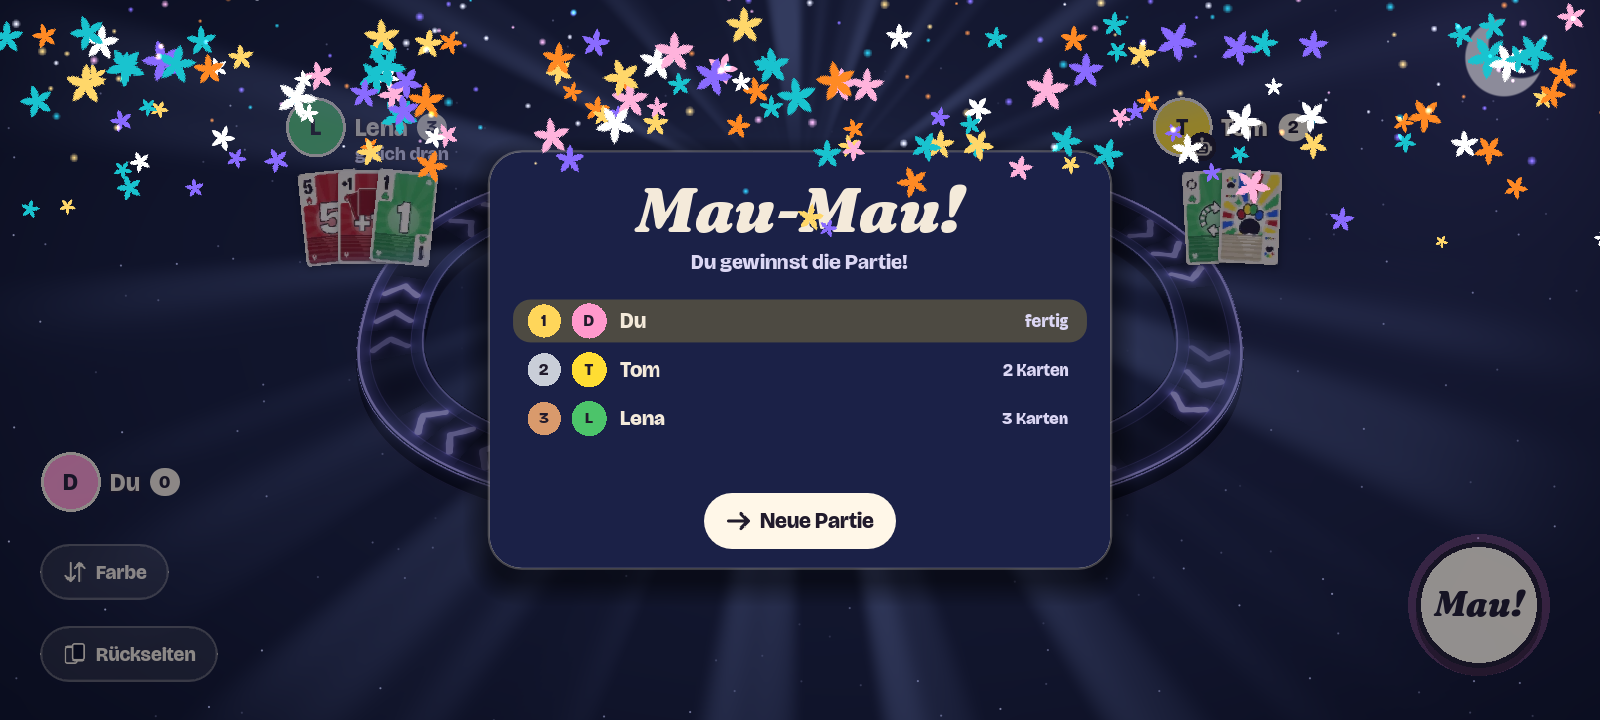
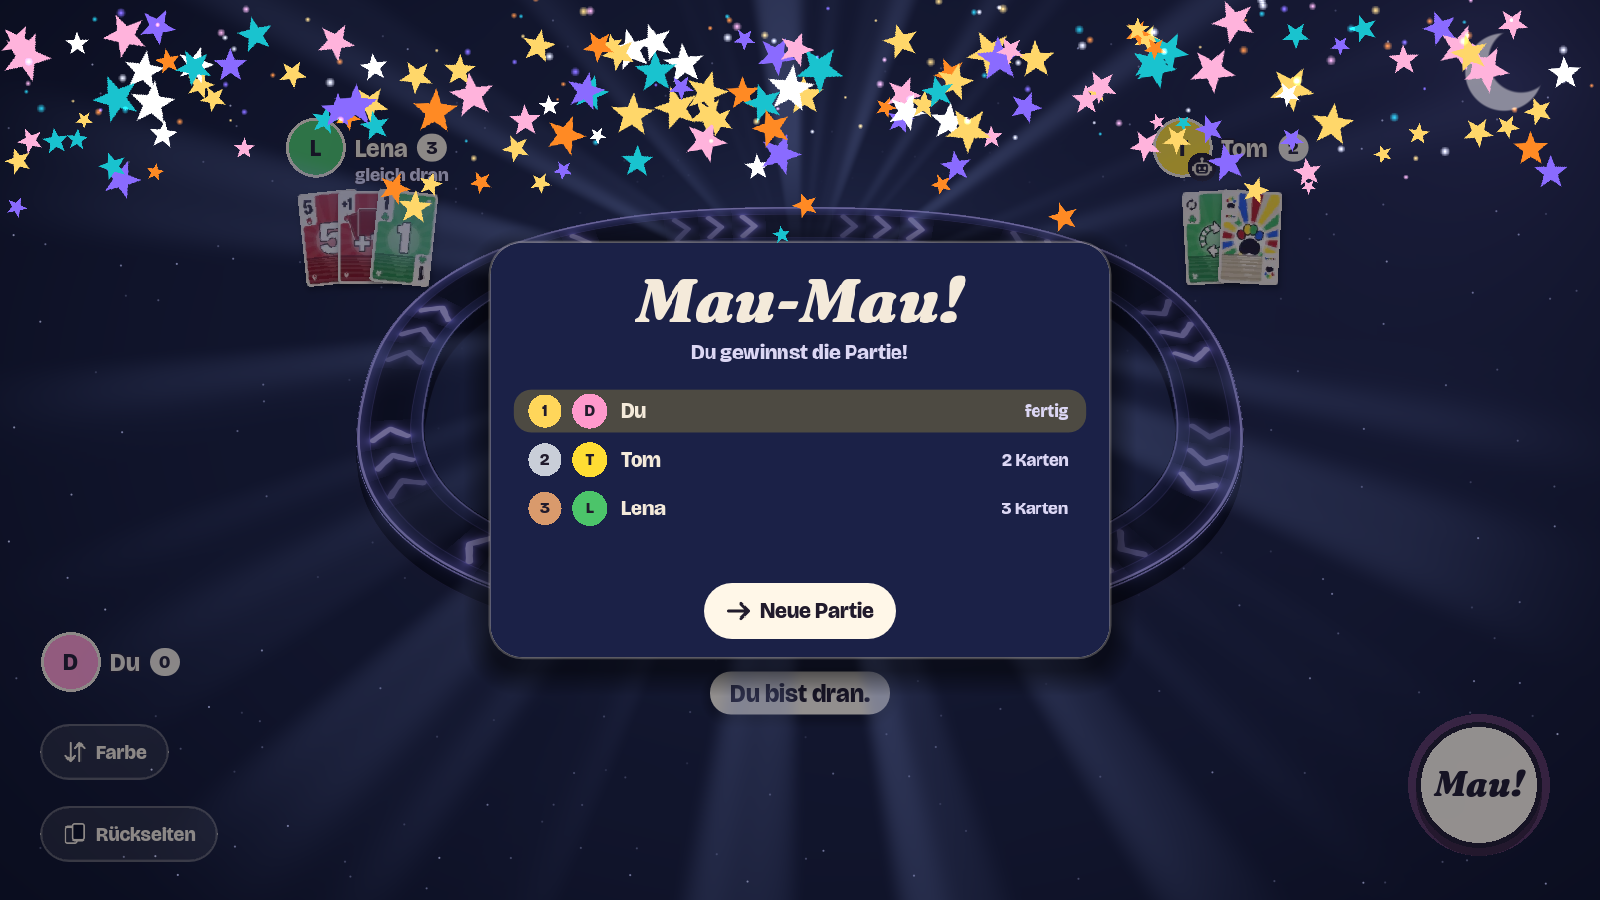
Beta 1.3.5: Sternenschauer in der App mit echten, spitzen Sternen statt blumenartiger Form

diff --git a/webclient/app.js b/webclient/app.js
@@ -5,7 +5,7 @@
 (function (M) {
   'use strict';
 
-  const VERSION = '1.3.4';
+  const VERSION = '1.3.5';
   const PROTO = 1;
   // wach.mp4 (32×32, 2 s, H.264 Baseline, ohne Ton; erzeugt mit ffmpeg) als data:-URI
[1 lines of base64/hex data omitted]

diff --git a/AGENTS.md b/AGENTS.md
@@ -117,7 +117,7 @@ Anlass: erstes echtes Online-Spiel des Nutzers (S24 Gastgeber, Freundin als Gast
 ## Erledigt in Beta 1.3.4 (veröffentlicht 08.10.2026; Nutzerwünsche vom selben Tag)
 
 - **Aussetzen-Karten:** beim Legen ein Katzenschnurren (Spieltöne; Kandidaten aus MOSS-SoundEffect wie die übrigen Spieltöne, Nutzer wählt per Hörseite; nichts aus `audio/referenz`). Runde 1 (`audio/entwurf/schnurren/`) war dem Nutzer „zu dumpf für den Handylautsprecher“; Runde 2 heller (`audio/entwurf/schnurren2/`, Handy-Simulation) war „zu hell und kratzig“, 2_09 die Richtung; **gewählt: `audio/entwurf/schnurren3/schnurren3_03.ogg`** (2_09 weich, Puls etwas deutlicher) → `game/assets/sfx/schnurren.ogg`, `webclient/sfx/schnurren.ogg|m4a`.
-- **Partie-Ende nachts:** statt Konfettiregen ein bunter Sternenschauer (App `Effects.celebrate/star_shower`, Browser `feier()`; tagsüber bleibt Konfetti). Browser-Lobby tagsüber hell (nach einer Nachtpartie bleibt sie dunkel). Bericht `docs/geraetetest/1.3.4/BERICHT.md`; Schnurren am Gerät noch nicht gehört.
+- **Partie-Ende nachts:** statt Konfettiregen ein bunter Sternenschauer (App `Effects.celebrate/star_shower`, Browser `feier()`; tagsüber bleibt Konfetti). Browser-Lobby tagsüber hell (nach einer Nachtpartie bleibt sie dunkel). Bericht `docs/geraetetest/1.3.4/BERICHT.md`; Schnurren am Gerät noch nicht gehört. **1.3.5:** App-Sterne hatten gebogene Kanten und wirkten wie Blumen (Nutzerbefund) → `Effects.star_texture` mit geraden, spitzen Zacken (64 px).
 
 ## Geplant: Online-Spiel, Schritt 1 (Nutzerentscheidung 08.10.2026)
 

diff --git a/docs/release_notes/1.3.5.md b/docs/release_notes/1.3.5.md
@@ -1,0 +1,10 @@
+**Mau-Mau Flip 1.3.5 (Beta)** – jetzt wirklich Sterne.
+
+## Verbessert
+
+- **Sternenschauer:** In der App fallen am Partie-Ende bei Nacht jetzt echte Sterne mit spitzen Zacken – in 1.3.4 sahen sie eher wie Blumen aus.
+
+## Hinweise
+
+- Testversion: Rückmeldungen gern über die Issues.
+- Update direkt in der App: Einstellungen → Updates → „Jetzt prüfen“ (Beta-Kanal einschalten).
